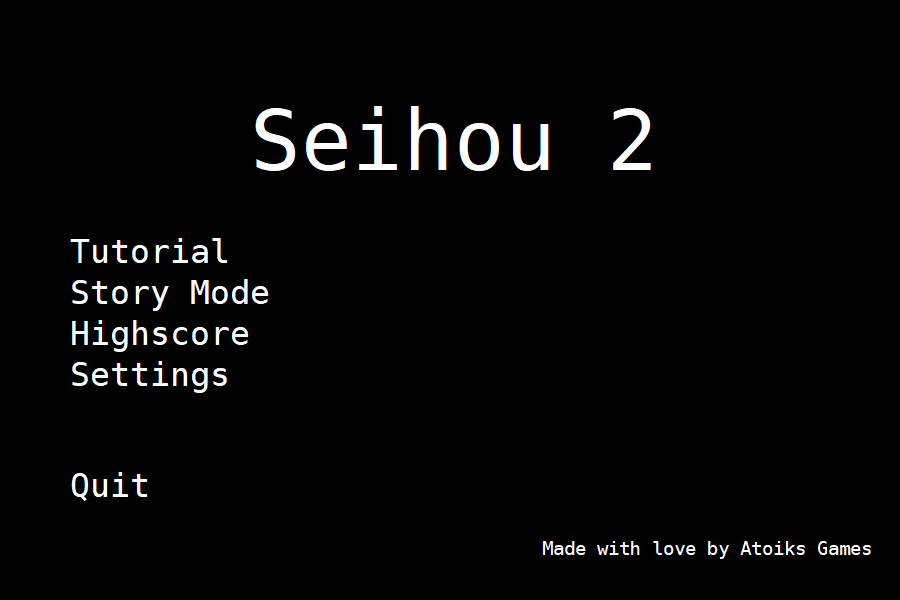
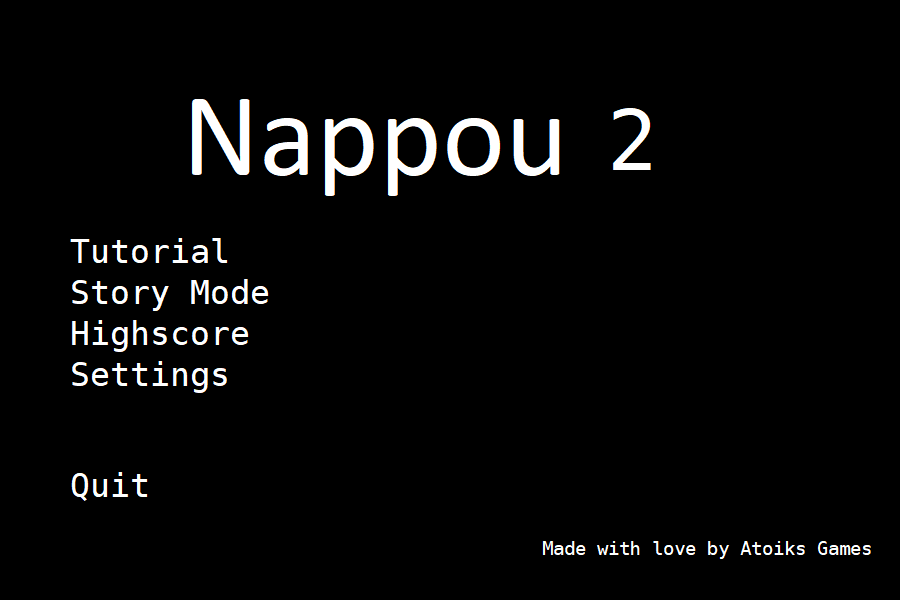
Name Change Part 1

Changed region(s): [[0.1867, 0.15, 0.6222, 0.33]]

diff --git a/README.md b/README.md
@@ -1,6 +1,6 @@
-# Seihou 2
+# Nappou 2
 
-The second game in the Seihou series
+The second game in the Nappou series
 
 ## Build Instructions
 
